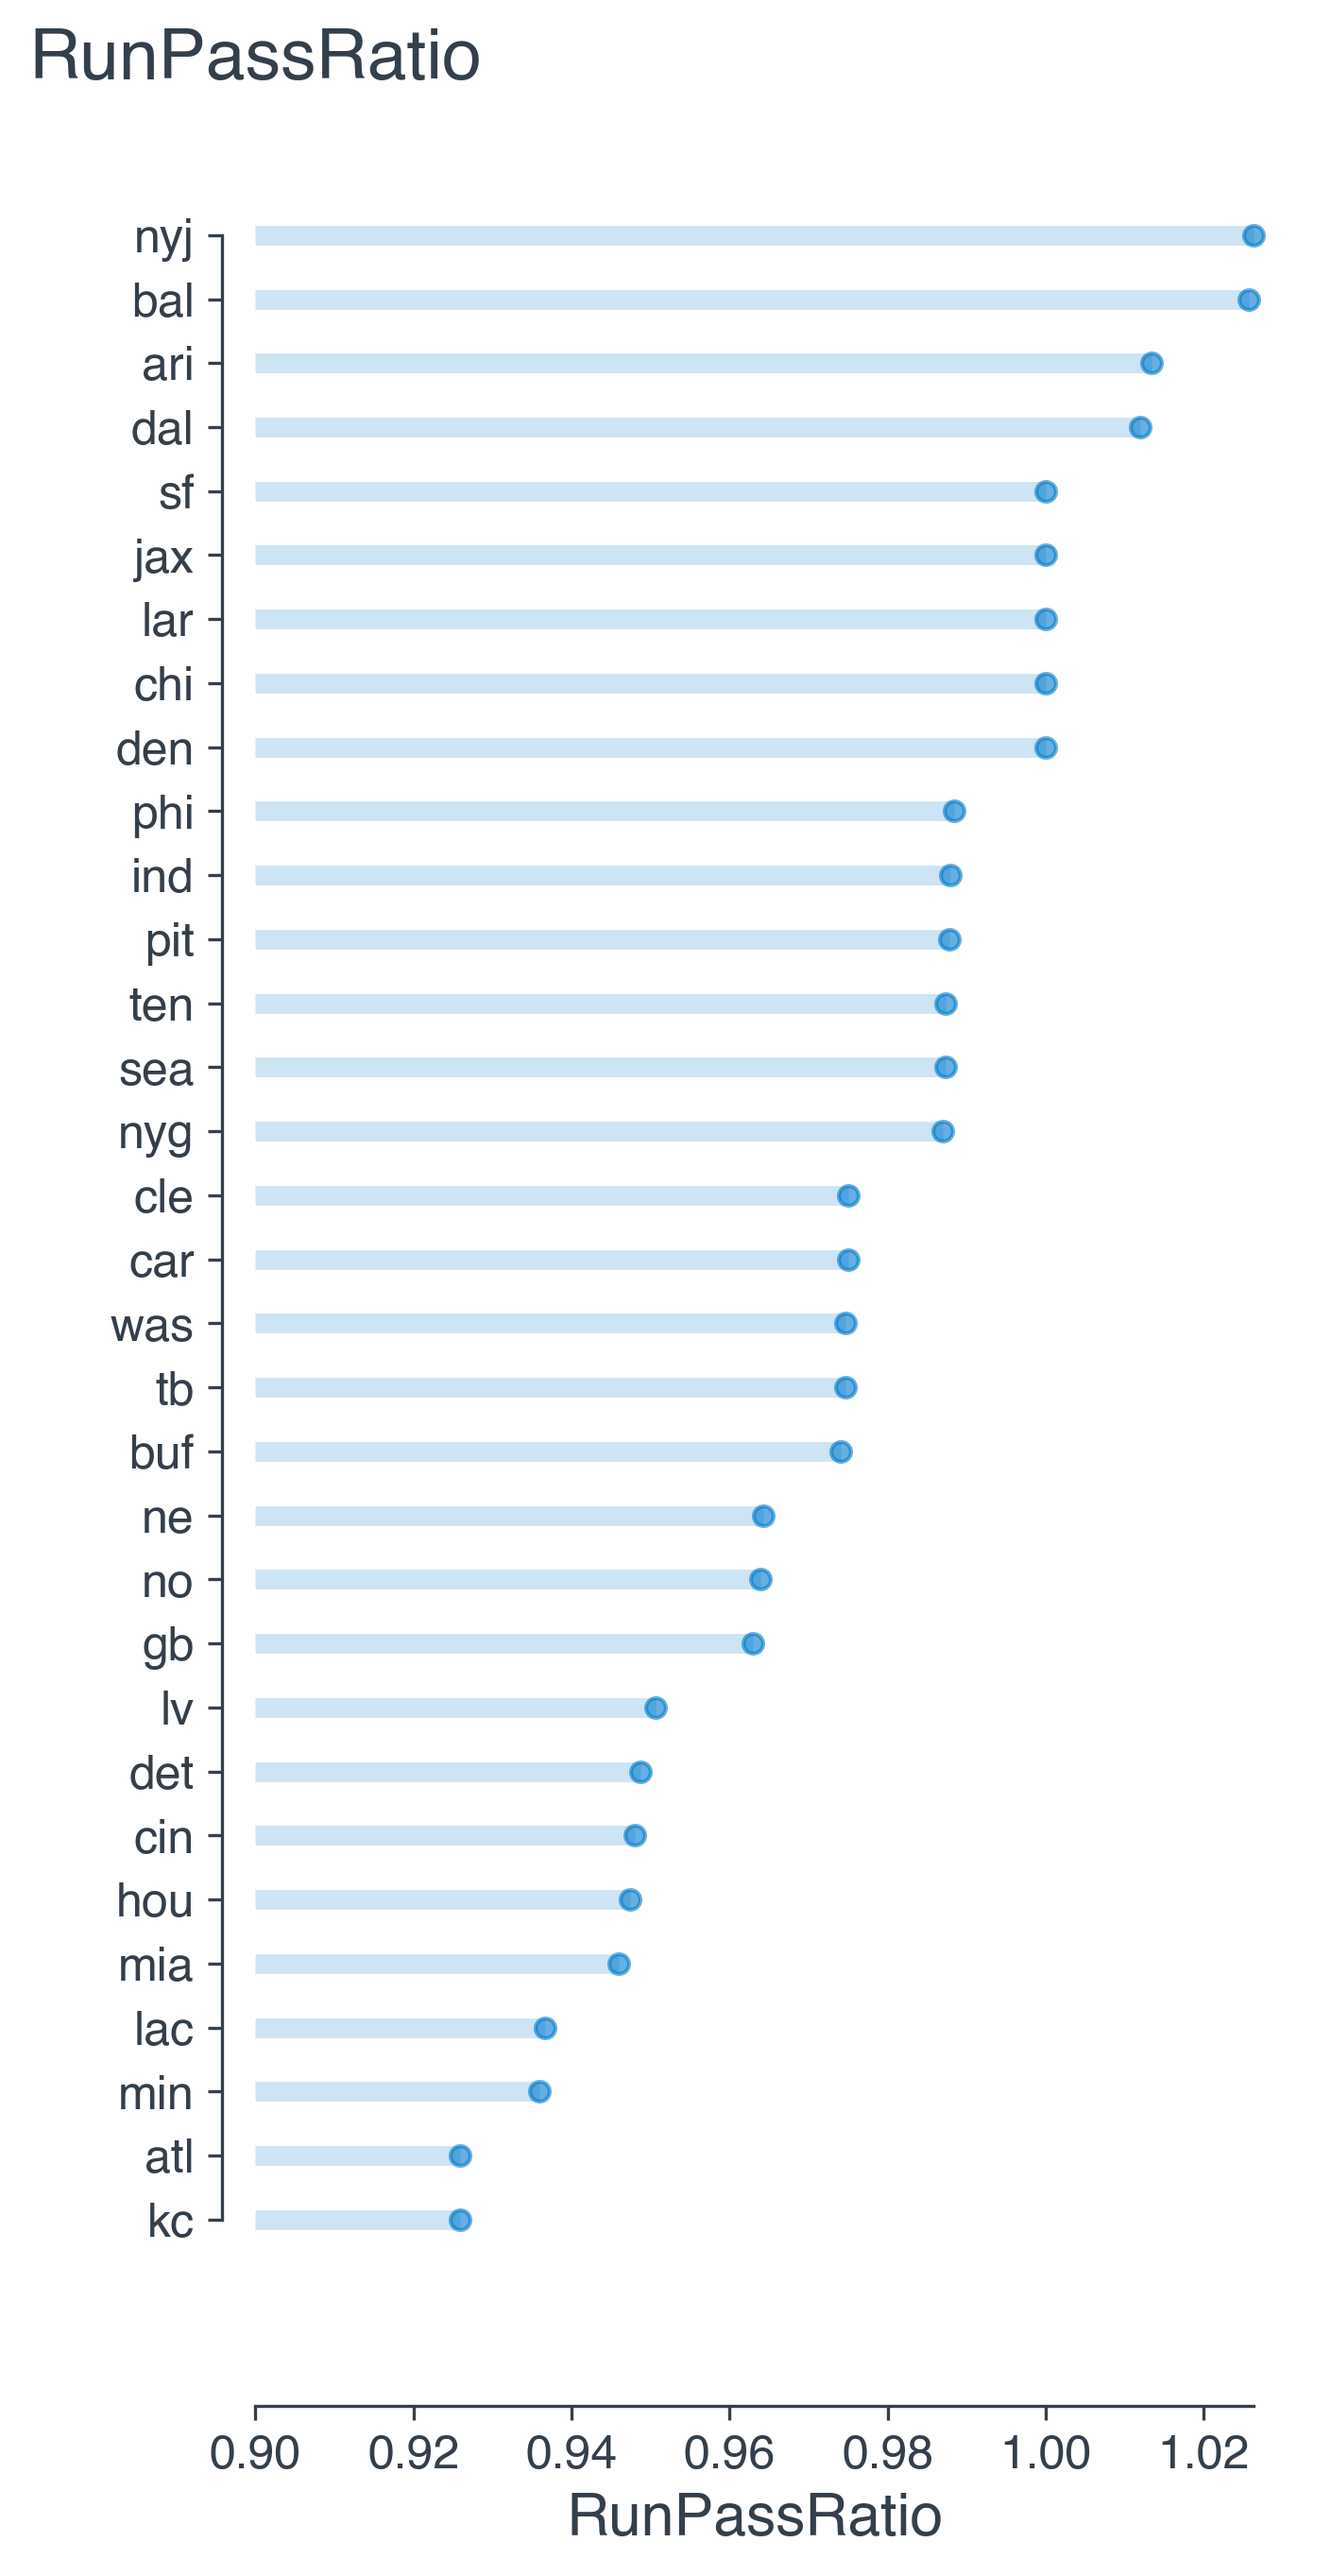
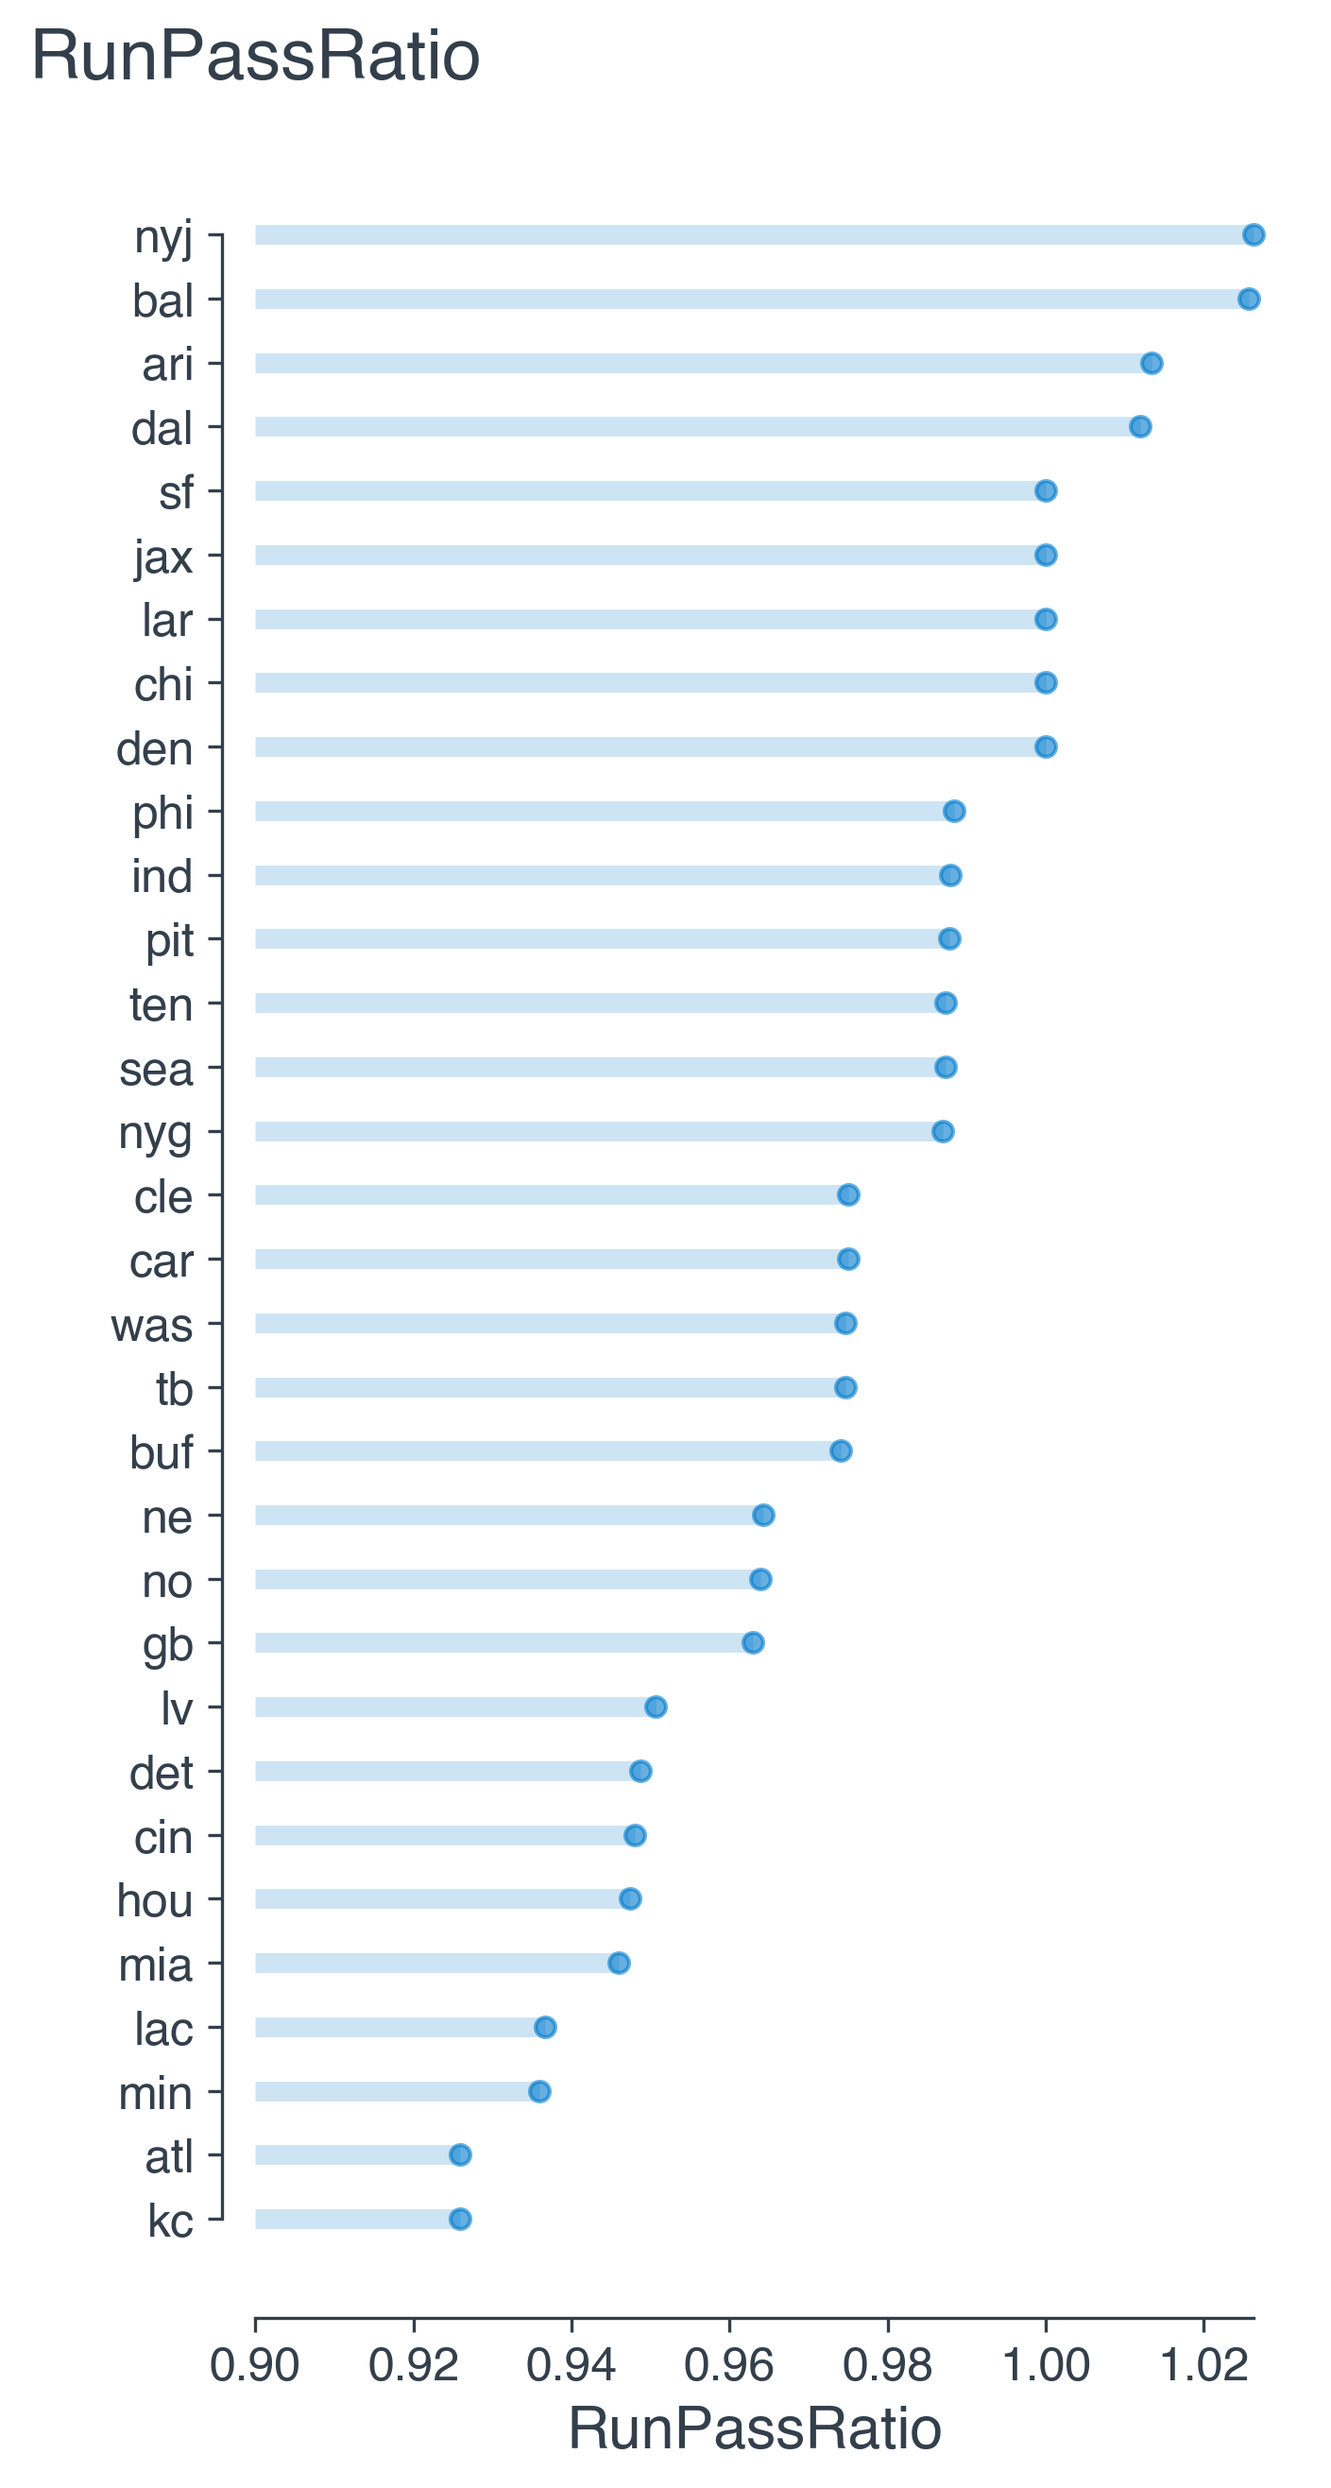
additional visualizations

diff --git a/src/teamExplorer.py b/src/teamExplorer.py
@@ -13,8 +13,21 @@ def getRPR(teams):
         rpr.append(t.run_pass_ratio)
     return rpr
 
+def getOline(teams):
+    oline = []
+    for team in teams:
+        t = getTeam(team = team, verbose = False)
+        oline.append(t.olineovr)
+    return oline
 
-def plot(x, y, name):
+def getRPD(teams):
+    rpd = []
+    for team in teams:
+        t = getTeam(team = team, verbose = False)
+        rpd.append(t.run_pass_defense)
+    return rpd
+
+def plot(x, y, name, minValue = 0):
     plt.rcParams['font.family'] = 'sans-serif'
     plt.rcParams['font.sans-serif'] = 'Helvetica'
 
@@ -31,7 +44,7 @@ def plot(x, y, name):
 
     my_range=list(range(1,len(df.index)+1))
     fig, ax = plt.subplots(figsize=(5,10))
-    plt.hlines(y=my_range, xmin=.9, xmax=df[name], color='#007ACC', alpha=0.2, linewidth=5)
+    plt.hlines(y=my_range, xmin=minValue, xmax=df[name], color='#007ACC', alpha=0.2, linewidth=5)
 
     plt.plot(df[name], my_range, "o", markersize=5, color='#007ACC', alpha=0.6)
 
@@ -46,7 +59,7 @@ def plot(x, y, name):
     ax.spines['right'].set_color('none')
     ax.spines['left'].set_smart_bounds(True)
     ax.spines['bottom'].set_smart_bounds(True)
-    ax.spines['bottom'].set_position(('axes', -0.04))
+    ax.spines['bottom'].set_position(('axes', 0))
     ax.spines['left'].set_position(('axes', 0.015))
 
     filename = 'visualization/' +name + '.png'
@@ -55,8 +68,13 @@ def plot(x, y, name):
 def main():
     teams = ['ari','atl','bal','buf','car','chi','cin','cle','dal', 'den', 'det', 'gb', 'hou', 'ind','jax','kc', 'lac', 'lar', 'lv','mia','min','ne','no','nyg','nyj','phi','pit','sea','sf','tb','ten','was']
     rpr = getRPR(teams)
-    plot(teams,rpr, 'RunPassRatio')
+    plot(teams,rpr, 'RunPassRatio', .9)
 
+    oline = getOline(teams)
+    plot(teams,oline,'OffensiveLineStrength',65)
+
+    rpd = getRPD(teams)
+    plot(teams,rpd, 'RunPassDefense',.9)
 
 
 

diff --git a/lib/team.py b/lib/team.py
@@ -121,12 +121,15 @@ class Team:
         self.passovr = np.around(np.mean([x.ovr for x in self.passO]))
         self.rundef = np.around(np.mean([x.ovr for x in self.runD]))
         self.passdef = np.around(np.mean([x.ovr for x in self.passD]))
+        self.olineovr = np.around(np.mean([x.ovr for x in self.oline]))
 
         self.ovr = np.around(.4 * self.offovr + .4 * self.defovr + .2 * self.stovr, 0) 
 
 
 
         self.run_pass_ratio = 1.0 * self.runovr / self.passovr
+
+        self.run_pass_defense = 1.0 * self.rundef / self.passdef
 
     def printStats(self):
         print("STATS: ")
